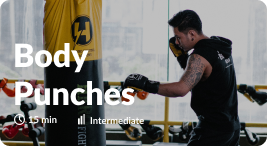
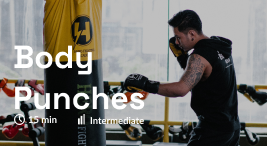
#update

diff --git a/lib/screens/navscreens/explorescreen.dart b/lib/screens/navscreens/explorescreen.dart
@@ -1,17 +1,123 @@
+import 'package:chips_choice/chips_choice.dart';
 import 'package:flutter/material.dart';
 
-// Ein Widget, dass später in der BottomNavigation benutzt wird
-class ExploreScreenWidget extends StatelessWidget {
-  const ExploreScreenWidget({super.key});
+class ExploreScreen extends StatefulWidget {
+  const ExploreScreen({super.key});
 
+  @override
+  State<ExploreScreen> createState() => _ExploreScreenState();
+}
+
+class _ExploreScreenState extends State<ExploreScreen> {
+  int tag = 1;
+  List<String> tags = [];
+  List<String> options = [
+    "Basics",
+    "Comnbinations",
+    "Power Punches",
+    "Footwork",
+    "Power Punches"
+  ];
   @override
   Widget build(BuildContext context) {
     return Scaffold(
-      appBar: AppBar(
-        backgroundColor: Colors.grey,
+      backgroundColor: Colors.grey[300],
+      body: Column(
+        crossAxisAlignment: CrossAxisAlignment.start,
+        children: [
+          SizedBox(height: 70),
+          Padding(
+            padding: const EdgeInsets.symmetric(horizontal: 20.0),
+            child: Container(
+              decoration: BoxDecoration(
+                  color: Colors.grey[200],
+                  border: Border.all(color: Colors.white),
+                  borderRadius: BorderRadius.circular(10)),
+              child: Row(
+                children: [
+                  Padding(
+                    padding: const EdgeInsets.symmetric(horizontal: 15.0),
+                    child: Container(
+                      height: 60,
+                      width: 30,
+                      child: Image.asset("img/icons/search.png"),
+                    ),
+                  ),
+                  Expanded(
+                    child: TextField(
+                      decoration: InputDecoration(
+                        border: InputBorder.none,
+                        hintText: "Search",
+                      ),
+                    ),
+                  ),
+                ],
+              ),
+            ),
+          ),
+          SizedBox(height: 15),
+          Padding(
+            padding: EdgeInsets.symmetric(horizontal: 20.0),
+            child: ChipsChoice.single(
+              value: tag,
+              onChanged: (val) => setState(() => tag = val),
+              choiceItems: C2Choice.listFrom(
+                source: options,
+                value: (i, v) => i,
+                label: (i, v) => v,
+              ),
+              choiceStyle: C2ChipStyle(backgroundColor: Colors.red),
+            ),
+          ),
+          SizedBox(height: 15),
+          Container(
+            height: 550,
+            width: double.maxFinite,
+            margin: const EdgeInsets.only(left: 20),
+            child: ListView.builder(
+                itemCount: 1,
+                scrollDirection: Axis.vertical,
+                itemBuilder: (_, index) {
+                  return Container(
+                    margin: const EdgeInsets.only(
+                      right: 20,
+                    ),
+                    child: Column(
+                      children: [
+                        Container(
+                          // margin: const EdgeInsets.only(right: 50),
+                          width: 270,
+                          height: 150,
+                          decoration: BoxDecoration(
+                              borderRadius: BorderRadius.circular(10),
+                              color: Colors.white,
+                              image: DecorationImage(
+                                  image:
+                                      AssetImage("img/card-box-basics-1.png"),
+                                  fit: BoxFit.cover)),
+                        ),
+                        SizedBox(
+                          height: 10,
+                        ),
+                        Container(
+                          // margin: const EdgeInsets.only(right: 50),
+                          width: 270,
+                          height: 150,
+                          decoration: BoxDecoration(
+                              borderRadius: BorderRadius.circular(10),
+                              color: Colors.white,
+                              image: DecorationImage(
+                                  image:
+                                      AssetImage("img/card-box-basics-1.png"),
+                                  fit: BoxFit.cover)),
+                        ),
+                      ],
+                    ),
+                  );
+                }),
+          ),
+        ],
       ),
-      body: Center(child: Text("explore")),
-      backgroundColor: Colors.white,
     );
   }
 }

diff --git a/lib/screens/navscreens/homescreen.dart b/lib/screens/navscreens/homescreen.dart
@@ -34,18 +34,13 @@ class _HomeScreenState extends State<HomeScreen> with TickerProviderStateMixin {
               left: 20,
             ),
             child: Row(children: [
-              Icon(
-                Icons.menu,
-                size: 30,
-                color: Colors.black,
-              ),
               Expanded(child: Container()),
               Container(
                 margin: const EdgeInsets.only(right: 20),
                 width: 50,
                 height: 50,
                 decoration: BoxDecoration(
-                  borderRadius: BorderRadius.circular(10),
+                  borderRadius: BorderRadius.circular(50),
                   image: DecorationImage(
                       image: AssetImage("img/profil/profilpic.jpg"),
                       fit: BoxFit.cover),
@@ -53,15 +48,19 @@ class _HomeScreenState extends State<HomeScreen> with TickerProviderStateMixin {
               ),
             ]),
           ),
-          SizedBox(
-            height: 20,
+          Container(
+            margin: const EdgeInsets.only(left: 20),
+            child: AppLargeText(text: 'Good\nAfternoon'),
           ),
           Container(
             margin: const EdgeInsets.only(left: 20),
-            child: AppLargeText(text: 'Discover'),
+            child: AppLargeText(
+              text: 'Sasuke Uchicha',
+              color: Colors.red,
+            ),
           ),
           SizedBox(
-            height: 20,
+            height: 10,
           ),
           // Tabbar
           Container(
@@ -83,7 +82,7 @@ class _HomeScreenState extends State<HomeScreen> with TickerProviderStateMixin {
             ),
           ),
           SizedBox(
-            height: 20,
+            height: 10,
           ),
           Container(
             padding: const EdgeInsets.only(left: 20),
@@ -119,7 +118,7 @@ class _HomeScreenState extends State<HomeScreen> with TickerProviderStateMixin {
             ),
           ),
           SizedBox(
-            height: 50,
+            height: 25,
           ),
           Container(
             margin: const EdgeInsets.only(
@@ -140,7 +139,7 @@ class _HomeScreenState extends State<HomeScreen> with TickerProviderStateMixin {
               ],
             ),
           ),
-          SizedBox(height: 30),
+          SizedBox(height: 25),
           Container(
             height: 150,
             width: double.maxFinite,
@@ -150,12 +149,12 @@ class _HomeScreenState extends State<HomeScreen> with TickerProviderStateMixin {
                 scrollDirection: Axis.horizontal,
                 itemBuilder: (_, index) {
                   return Container(
-                    margin: const EdgeInsets.only(right: 30),
+                    margin: const EdgeInsets.only(right: 20),
                     child: Column(
                       children: [
                         Container(
                           // margin: const EdgeInsets.only(right: 50),
-                          width: 250,
+                          width: 270,
                           height: 150,
                           decoration: BoxDecoration(
                               borderRadius: BorderRadius.circular(10),

diff --git a/lib/widgets/Text/app_large_text.dart b/lib/widgets/Text/app_large_text.dart
@@ -1,5 +1,6 @@
 import 'package:flutter/material.dart';
 import 'package:flutter/cupertino.dart';
+import 'package:google_fonts/google_fonts.dart';
 
 class AppLargeText extends StatelessWidget {
   double size;
@@ -7,18 +8,23 @@ class AppLargeText extends StatelessWidget {
   final Color color;
 
   AppLargeText({
-    super.key,
+    Key? key,
     this.size = 30,
     required this.text,
     this.color = Colors.black,
-  });
+  }) : super(key: key);
 
   @override
   Widget build(BuildContext context) {
     return Text(
       text,
-      style:
-          TextStyle(color: color, fontSize: size, fontWeight: FontWeight.bold),
+      style: GoogleFonts.spaceGrotesk(
+        textStyle: TextStyle(
+          color: color,
+          fontSize: size,
+          fontWeight: FontWeight.bold,
+        ),
+      ),
     );
   }
 }

diff --git a/lib/navigator/MainBottomNavigator.dart b/lib/navigator/MainBottomNavigator.dart
@@ -1,7 +1,7 @@
 import 'package:flutter/material.dart';
 import 'package:hitbox_main/screens/navscreens/analysisscreen.dart';
 import 'package:hitbox_main/screens/navscreens/explorescreen.dart';
-import 'package:hitbox_main/screens/homescreen.dart';
+import 'package:hitbox_main/screens/navscreens/homescreen.dart';
 import 'package:hitbox_main/screens/navscreens/profilscreen.dart';
 
 // Beispielcode für das BottomNavigation Widget
@@ -20,7 +20,7 @@ class _MainBottomNavigatorState extends State<MainBottomNavigator> {
     // Hier ist wieder unser eben deklariertes Widget
     HomeScreen(),
     // Ein weiteres Widget, welches nicht extern erstellt wurde
-    ExploreScreenWidget(),
+    ExploreScreen(),
     // Noch ein Widget
     AnalysisScreenWidget(),
     ProfilScreenWidget(),

diff --git a/lib/widgets/Text/app.text.dart b/lib/widgets/Text/app.text.dart
@@ -1,5 +1,6 @@
 import 'package:flutter/material.dart';
 import 'package:flutter/cupertino.dart';
+import 'package:google_fonts/google_fonts.dart';
 
 class AppText extends StatelessWidget {
   double size;
@@ -17,9 +18,11 @@ class AppText extends StatelessWidget {
   Widget build(BuildContext context) {
     return Text(
       text,
-      style: TextStyle(
-        color: color,
-        fontSize: size,
+      style: GoogleFonts.spaceGrotesk(
+        textStyle: TextStyle(
+          color: color,
+          fontSize: size,
+        ),
       ),
     );
   }

diff --git a/lib/screens/navscreens/onboardingscreen.dart b/lib/screens/navscreens/onboardingscreen.dart
@@ -4,7 +4,7 @@ import 'package:hitbox_main/introscreens/introscreen1.dart';
 import 'package:hitbox_main/introscreens/introscreen2.dart';
 import 'package:hitbox_main/introscreens/introscreen3.dart';
 import 'package:hitbox_main/navigator/MainBottomNavigator.dart';
-import 'package:hitbox_main/screens/homescreen.dart';
+import 'package:hitbox_main/screens/navscreens/homescreen.dart';
 import 'package:smooth_page_indicator/smooth_page_indicator.dart';
 
 class OnboardingScreen extends StatefulWidget {

diff --git a/lib/main.dart b/lib/main.dart
@@ -1,7 +1,7 @@
 import 'package:flutter/material.dart';
 import 'package:hitbox_main/navigator/MainBottomNavigator.dart';
-import 'package:hitbox_main/screens/homescreen.dart';
-import 'package:hitbox_main/screens/onboardingscreen.dart';
+import 'package:hitbox_main/screens/navscreens/homescreen.dart';
+import 'package:hitbox_main/screens/navscreens/onboardingscreen.dart';
 
 void main() => runApp(const App());
 

diff --git a/macos/Flutter/GeneratedPluginRegistrant.swift b/macos/Flutter/GeneratedPluginRegistrant.swift
@@ -5,6 +5,8 @@
 import FlutterMacOS
 import Foundation
 
+import path_provider_foundation
 
 func RegisterGeneratedPlugins(registry: FlutterPluginRegistry) {
+  PathProviderPlugin.register(with: registry.registrar(forPlugin: "PathProviderPlugin"))
 }
